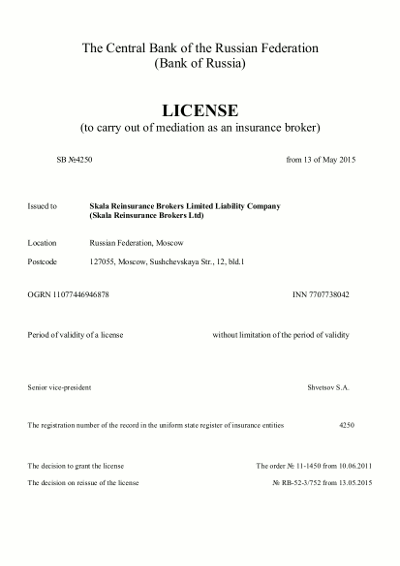
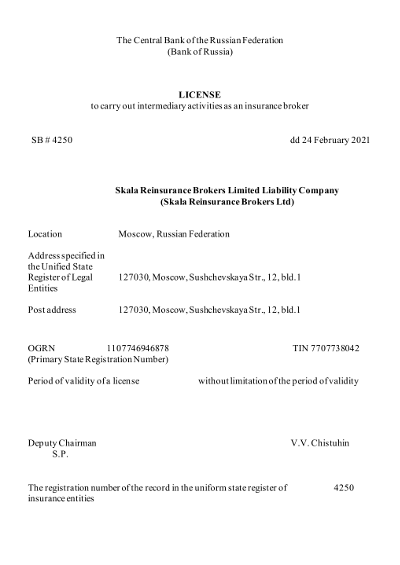
Изменения МАРТ 2021

diff --git a/assets/css/main.scss b/assets/css/main.scss
@@ -15,15 +15,19 @@ $footer-background-color: #c8e4ee;
 @import "minimal-mistakes/skins/{{ site.minimal_mistakes_skin | default: 'default' }}"; // skin
 @import "minimal-mistakes"; // main partials
 
+.page__hero--overlay {
+    background-attachment: fixed;
+}
 .greedy-nav {background: transparent;}
 .page__content p {text-align: justify;}
 .page__footer-copyright {color: $mylinkcolor;}
 .nav__sub-title {color: $mylinkcolor;}
 .page__footer { 
 	background-image: url(/assets/images/r1.jpg);
-    	background-size: cover;
-    	background-repeat: no-repeat;
-  	background-position: bottom; 
+    background-size: cover;
+    background-repeat: no-repeat;
+    background-position: bottom;
+    background-attachment: fixed; 
 }
 .page__footer-copyright {
     color: #fff;

diff --git a/about/info.md b/about/info.md
@@ -13,7 +13,7 @@ title: "Информация"
 
 С введением обязательного лицензирования брокеров **«Скала Страховой Брокер»**
 успешно прошли процедуру лицензирования и получили лицензию на
-осуществление страховой брокерской деятельности (действующая лицензия СБ № 4250 от 13 мая 2015 года).
+осуществление страховой брокерской деятельности (действующая лицензия СБ № 4250 от 24 февраля 2021 года).
 
 Учредитель и Генеральный директор компании - Александр Иванович Цикало.
 

diff --git a/contacts.md b/contacts.md
@@ -6,7 +6,7 @@ place: contacts
 
 «Скала Страховой Брокер» ООО
 
-127055, г. Москва, Сущевская ул., д.12, стр.1 <br> Бизнес центр Сущевский 
+127030, г. Москва, Сущевская ул., д.12, стр.1 <br> Бизнес центр Сущевский 
 
 Тел: <a href="tel:+7-499-973-38-52">+7 (499) 973-38-52</a>,<br>
 <a href="tel:+7-499-973-38-42">+7 (499) 973-38-42</a>,<br>

diff --git a/en/contacts.md b/en/contacts.md
@@ -6,7 +6,7 @@ place: contacts
 
 Skala Reinsurance Brokers Ltd.
 
-Business center 'Sushchevskiy'<br> b 1, 12 Sushchevskaya Str.<br>Moscow, Russia, 127055
+Business center 'Sushchevskiy'<br> b 1, 12 Sushchevskaya Str.<br>Moscow, Russia, 127030
 
 Tel: <a href="tel:+7-499-973-38-52">+7 (499) 973-38-52</a>,<br>
 <a href="tel:+7-499-973-38-42">+7 (499) 973-38-42</a>,<br>

diff --git a/en/partners/insurers.md b/en/partners/insurers.md
@@ -14,7 +14,6 @@ title: "Insurers"
 * The United Insurance Company, CJSC
 * Insurance Company Pari JSC
 * Insurance Company Paritet-SK Ltd.
-* Plateau Insurance Company JSC
 * Insurance Company Pomosсh LLC
 * Reso-Garantiya PLC
 * Rosgosstrakh PLC
